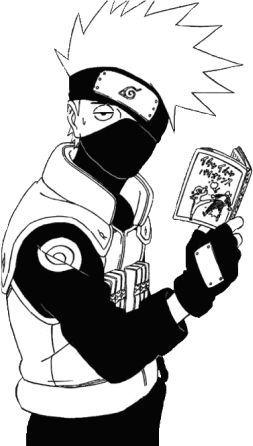
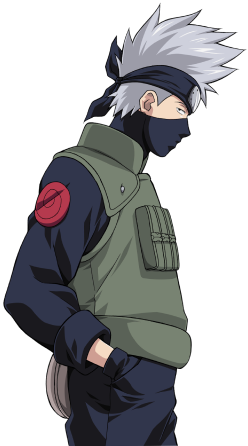
nouvelle images page naruto

diff --git a/Naruto.html b/Naruto.html
@@ -72,14 +72,14 @@
     <div id="Naruto1" class="FondBleuCadre">
 
         <img src="./public/img/LogoKonoha.png" class="LogoKonoha" alt="">
-        <img src="./public/img/Naruto1.png" style="position: absolute;right: 0; bottom: 0;" alt="">
+        <img src="./public/img/Naruto1.png" style="position: absolute;right: 0; bottom: 16;" alt="">
 
         <h3 style="color: white;">完全な成功を</h3>
         <h2 style="color: white;">UN SUCCES TOTAL</h2>
 
         <img src="./public/img/Susano.png" alt="" class="PNGSusano">
 
-        <p style="padding-top: 50px; padding-right: 110;">Naruto est un manga de type shonen dessiné par Masashi
+        <p style="padding-top: 50px; padding-right: 150;">Naruto est un manga de type shonen dessiné par Masashi
             Kishimoto. Sa première apparition date de 1999 dans le Weekly
             Shonen Jump, magazine japonais dans lequel les nouveaux mangas prometteurs apparaissent, et s’est finis dans
             ce même
@@ -99,7 +99,7 @@
 
             <img src="./public/img/LogoKonohaNoir.png" class="LogoKonoha" alt="">
 
-            <img src="./public/img/Kakashi.png" style="position: absolute;left: 13;bottom: 0;" alt="">
+            <img src="./public/img/Kakashi.png" style="position: absolute;left: 0;bottom: 0;" alt="">
 
             <p style=" color: #000000;">250 millions est le nombre d’exemplaires vendus dans le monde entier, autrement
                 dit Naruto est un incontournable dans
@@ -123,10 +123,14 @@
 
             <img src="./public/img/LogoKonoha.png" class="LogoKonoha" alt="">
 
+            <img src="./public/img/BanniereSasuke.png" style="text-align: center;display: flex;margin: auto;" alt="">
+
             <p>Mais qu’est-ce qu’est Naruto ? Naruto est le nom éponyme du protagoniste à la coiffure blonde et aux yeux
                 bleus, vêtu
                 dans une combinaison orange que vous avez surement déjà du apercevoir une fois, peu importe votre âge
             </p>
+
+            <img src="./public/img/BanniereNaruto.png" style="text-align: center;display: flex;margin: auto;" alt="">
 
             <p>Naruto est orphelin et a eu une enfance terrible. Enfermé avec un “demon” à l’intérieur de lui, qui a
                 dans le passé
@@ -161,12 +165,13 @@
                 ce soit par les
                 histoires des personnages ou le déroulement du manga.</p>
 
-            <img src="./public/img/Obito.png" style="position: absolute;bottom: 0; right: 19; left: 19;" alt="">
 
         </div>
 
 
     </div>
+
+<img src="./public/img/Itachi.png" style="position: absolute;left: 25;top: 3020;" alt="">
 
 </body>
 
